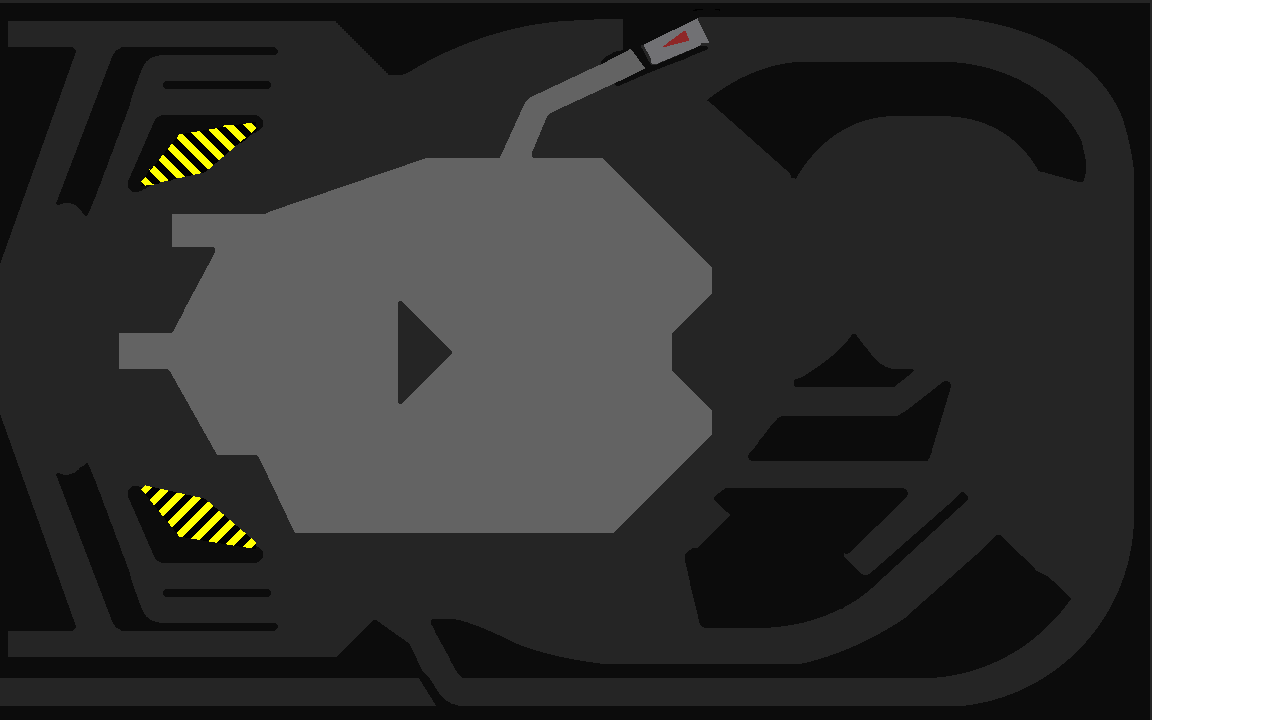
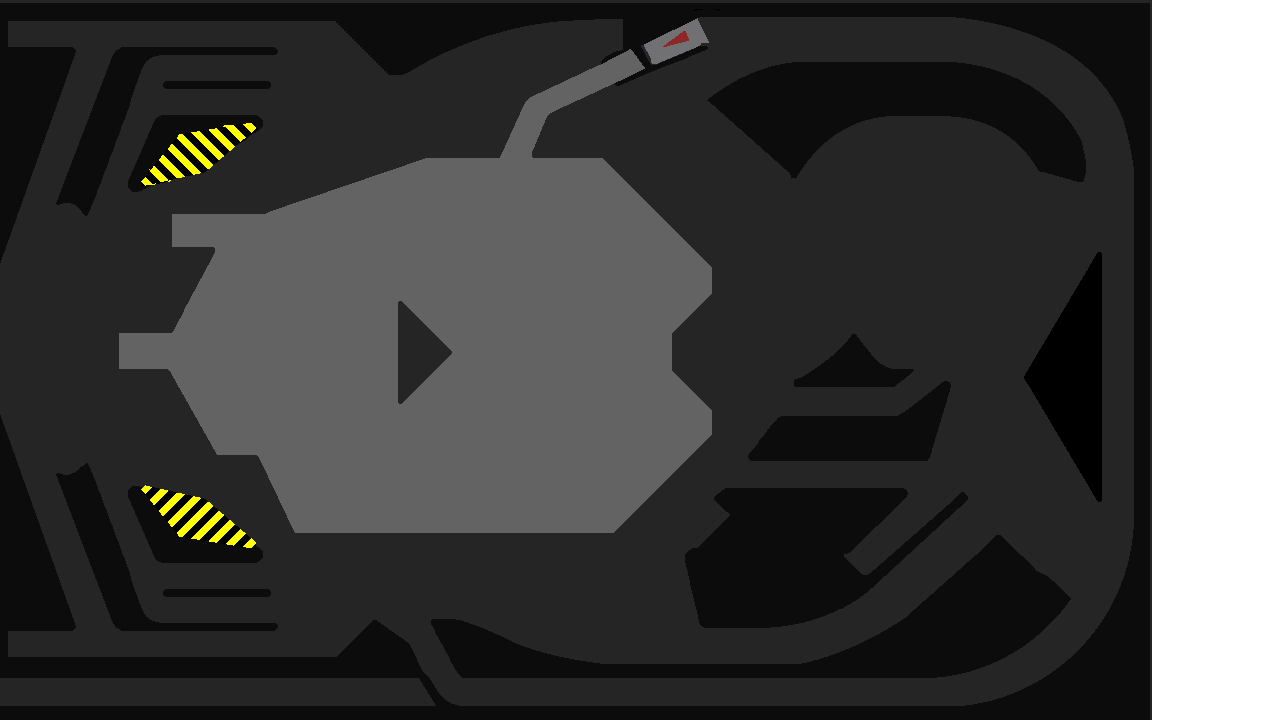
add graphics for conveyor

Changed region(s): [[0.7812, 0.3361, 0.875, 0.7028]]

diff --git a/games/pinball/source/conveyor.cpp b/games/pinball/source/conveyor.cpp
@@ -26,6 +26,15 @@ Conveyor::Conveyor(C2DRenderer* renderer, b2World& world, int conveyorID, int la
     m_shape->setFillColor(Color::Green);
     renderer->add(m_shape);
     m_shape->setLayer(layerID * 2 + 1);
+#else
+    m_textureEnabled = new C2DTexture(renderer->getIo()->getDataReadPath() + "pinballnx/conveyor" + std::to_string(conveyorID) + "enabled.png");
+    m_textureEnabled->setLayer(layerID * 2);
+    m_textureEnabled->setPosition(m_positions.at(conveyorID * 2), m_positions.at(conveyorID * 2 + 1));
+    renderer->add(m_textureEnabled);
+    m_textureDisabled = new C2DTexture(renderer->getIo()->getDataReadPath() + "pinballnx/conveyor" + std::to_string(conveyorID) + "disabled.png");
+    m_textureDisabled->setLayer(-99);
+    m_textureDisabled->setPosition(m_positions.at(conveyorID * 2), m_positions.at(conveyorID * 2 + 1));
+    renderer->add(m_textureDisabled);
 #endif
 }
 
@@ -35,6 +44,17 @@ b2Fixture* Conveyor::getFixture() {
 
 void Conveyor::setDirection(b2Vec2 vec) {
     m_direction = vec;
+#if !DEBUG
+    // Change graphics.
+    if (vec.y > 0) {
+        m_textureEnabled->setLayer(-99);
+        m_textureDisabled->setLayer(m_layerID * 2);
+    }
+    else {
+        m_textureEnabled->setLayer(m_layerID * 2);
+        m_textureDisabled->setLayer(-99);
+    }
+#endif
 }
 
 b2Vec2 Conveyor::getDirection() {

diff --git a/games/pinball/source/conveyor.h b/games/pinball/source/conveyor.h
@@ -27,7 +27,7 @@ class Conveyor {
             m_topConveyor
         };
         vector<float> m_positions = {
-            11.03, 2.1
+            1100, 250
         };
 };
 

diff --git a/games/pinball/source/util.h b/games/pinball/source/util.h
@@ -5,7 +5,7 @@
 #include <vector>
 #include "cross2d/c2d.h"
 
-#define DEBUG 1
+#define DEBUG 0
 
 using namespace c2d;
 
